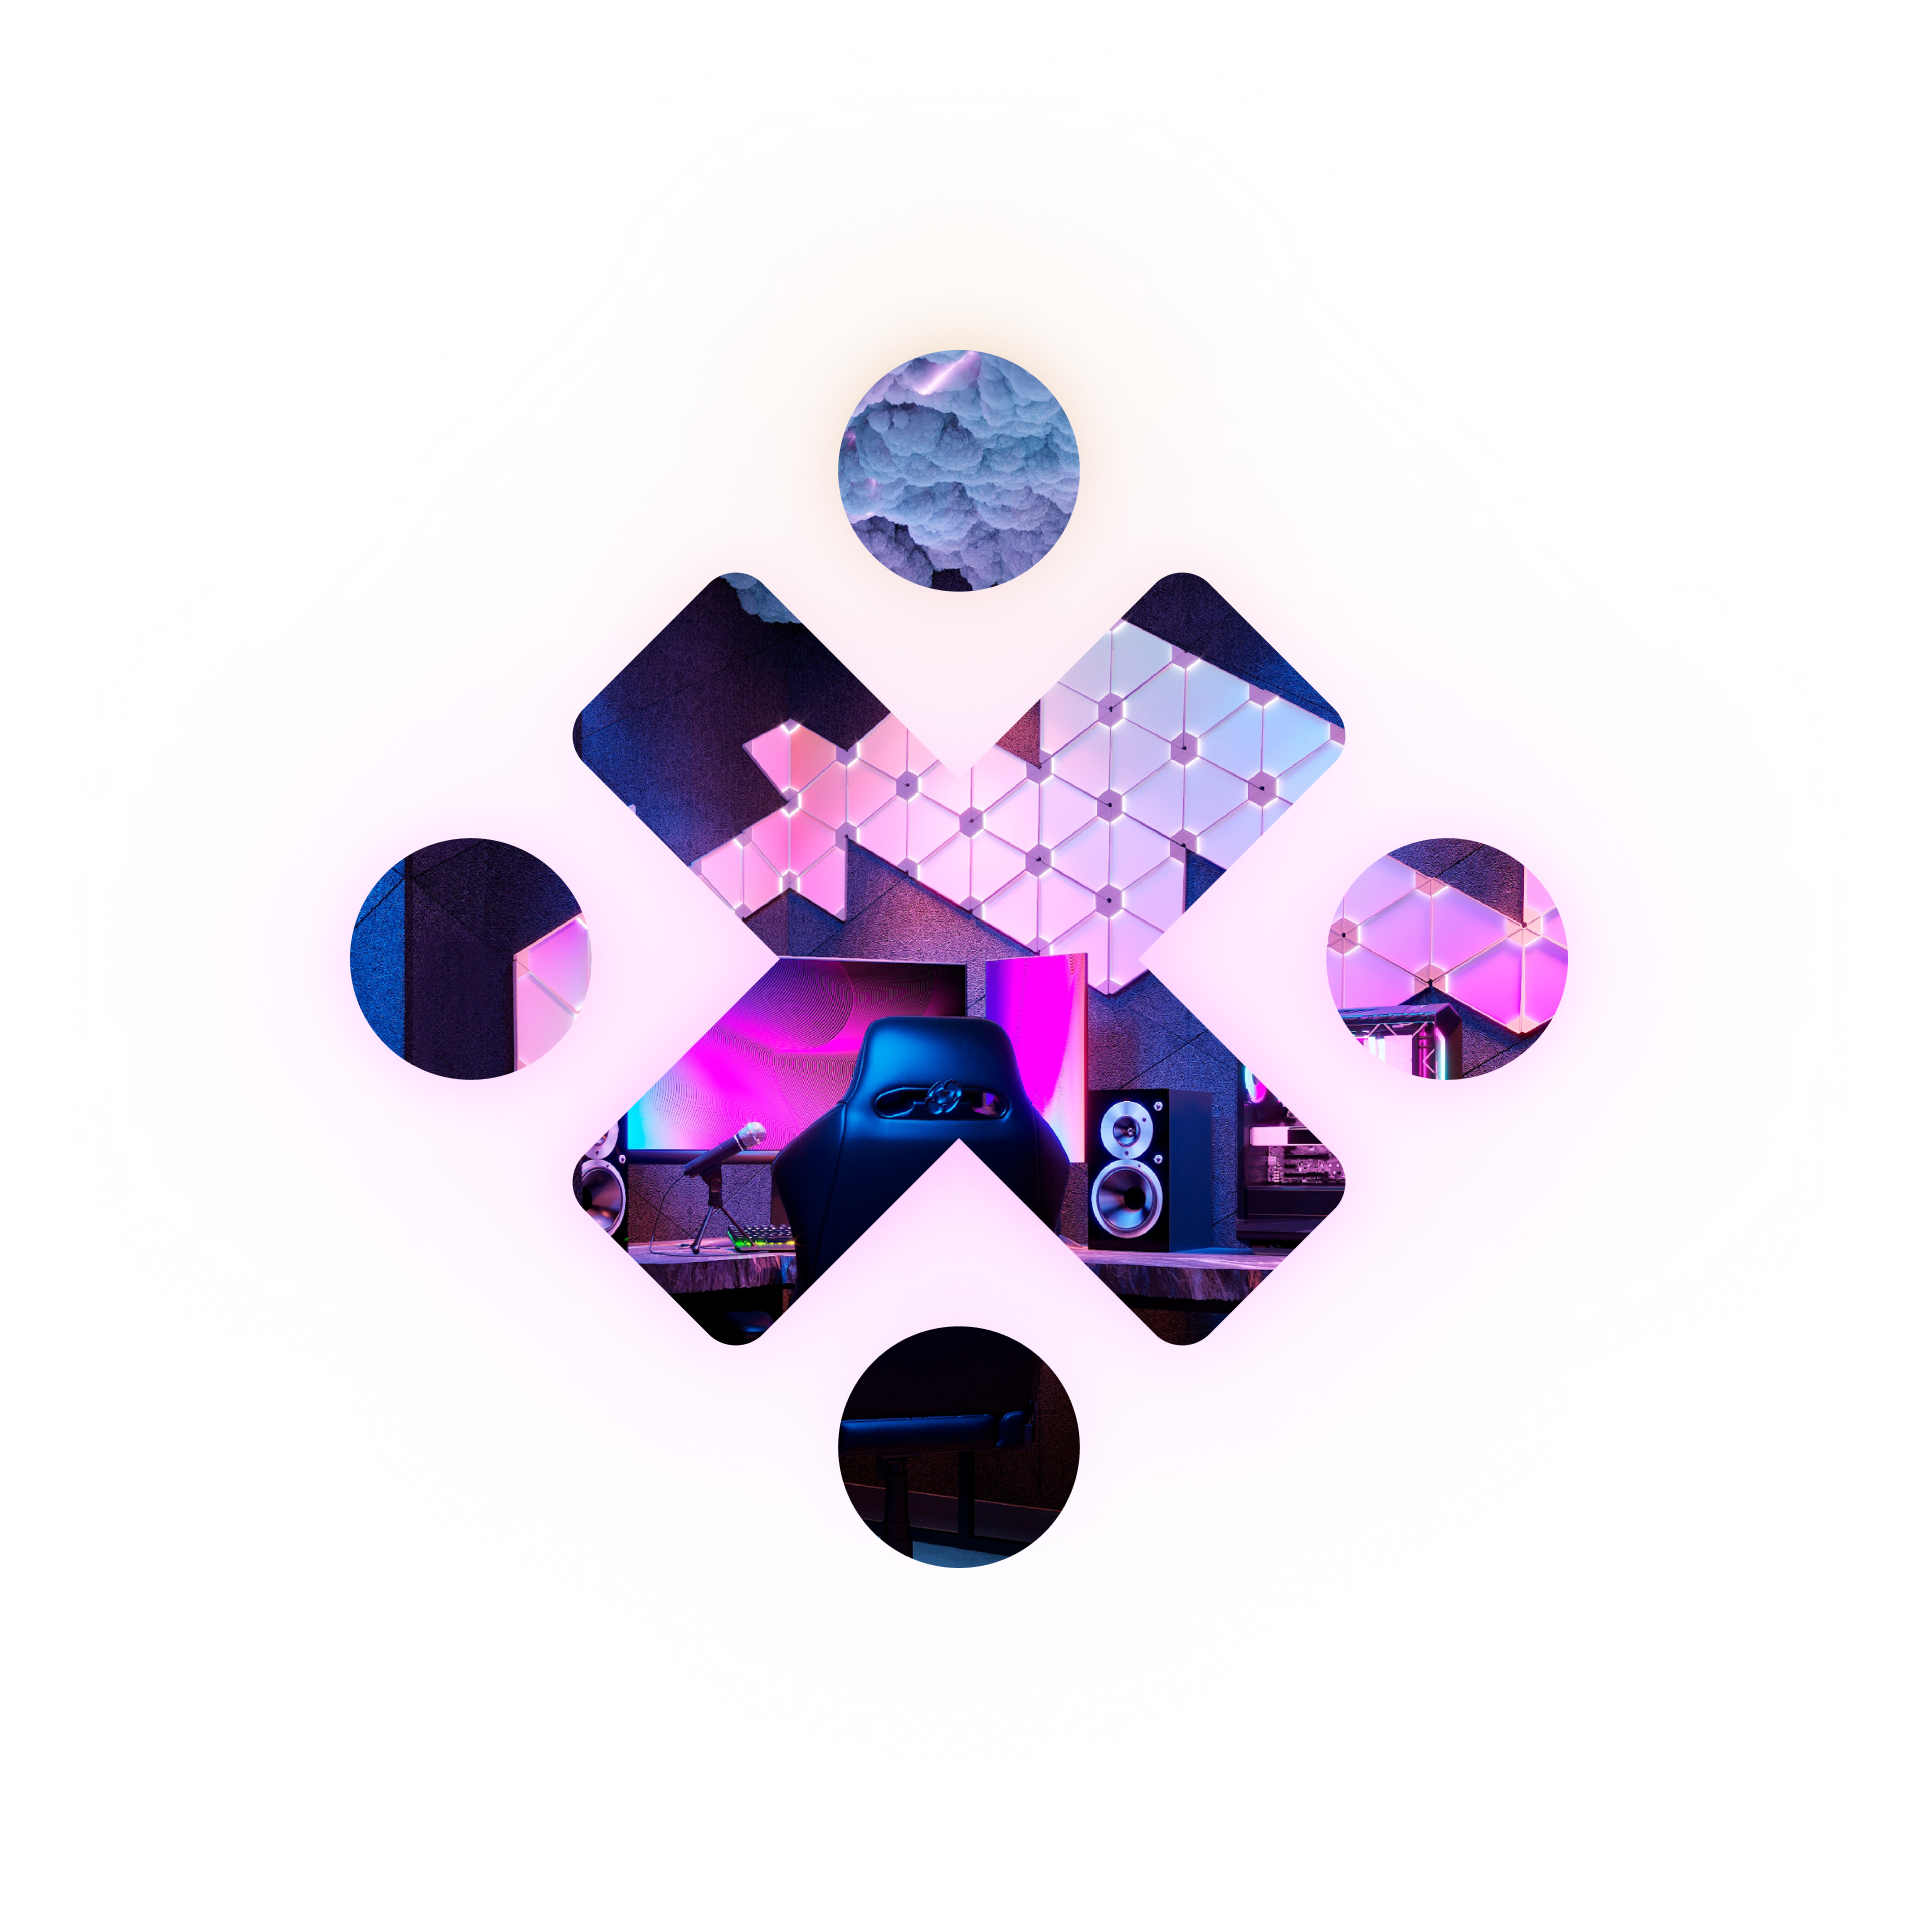
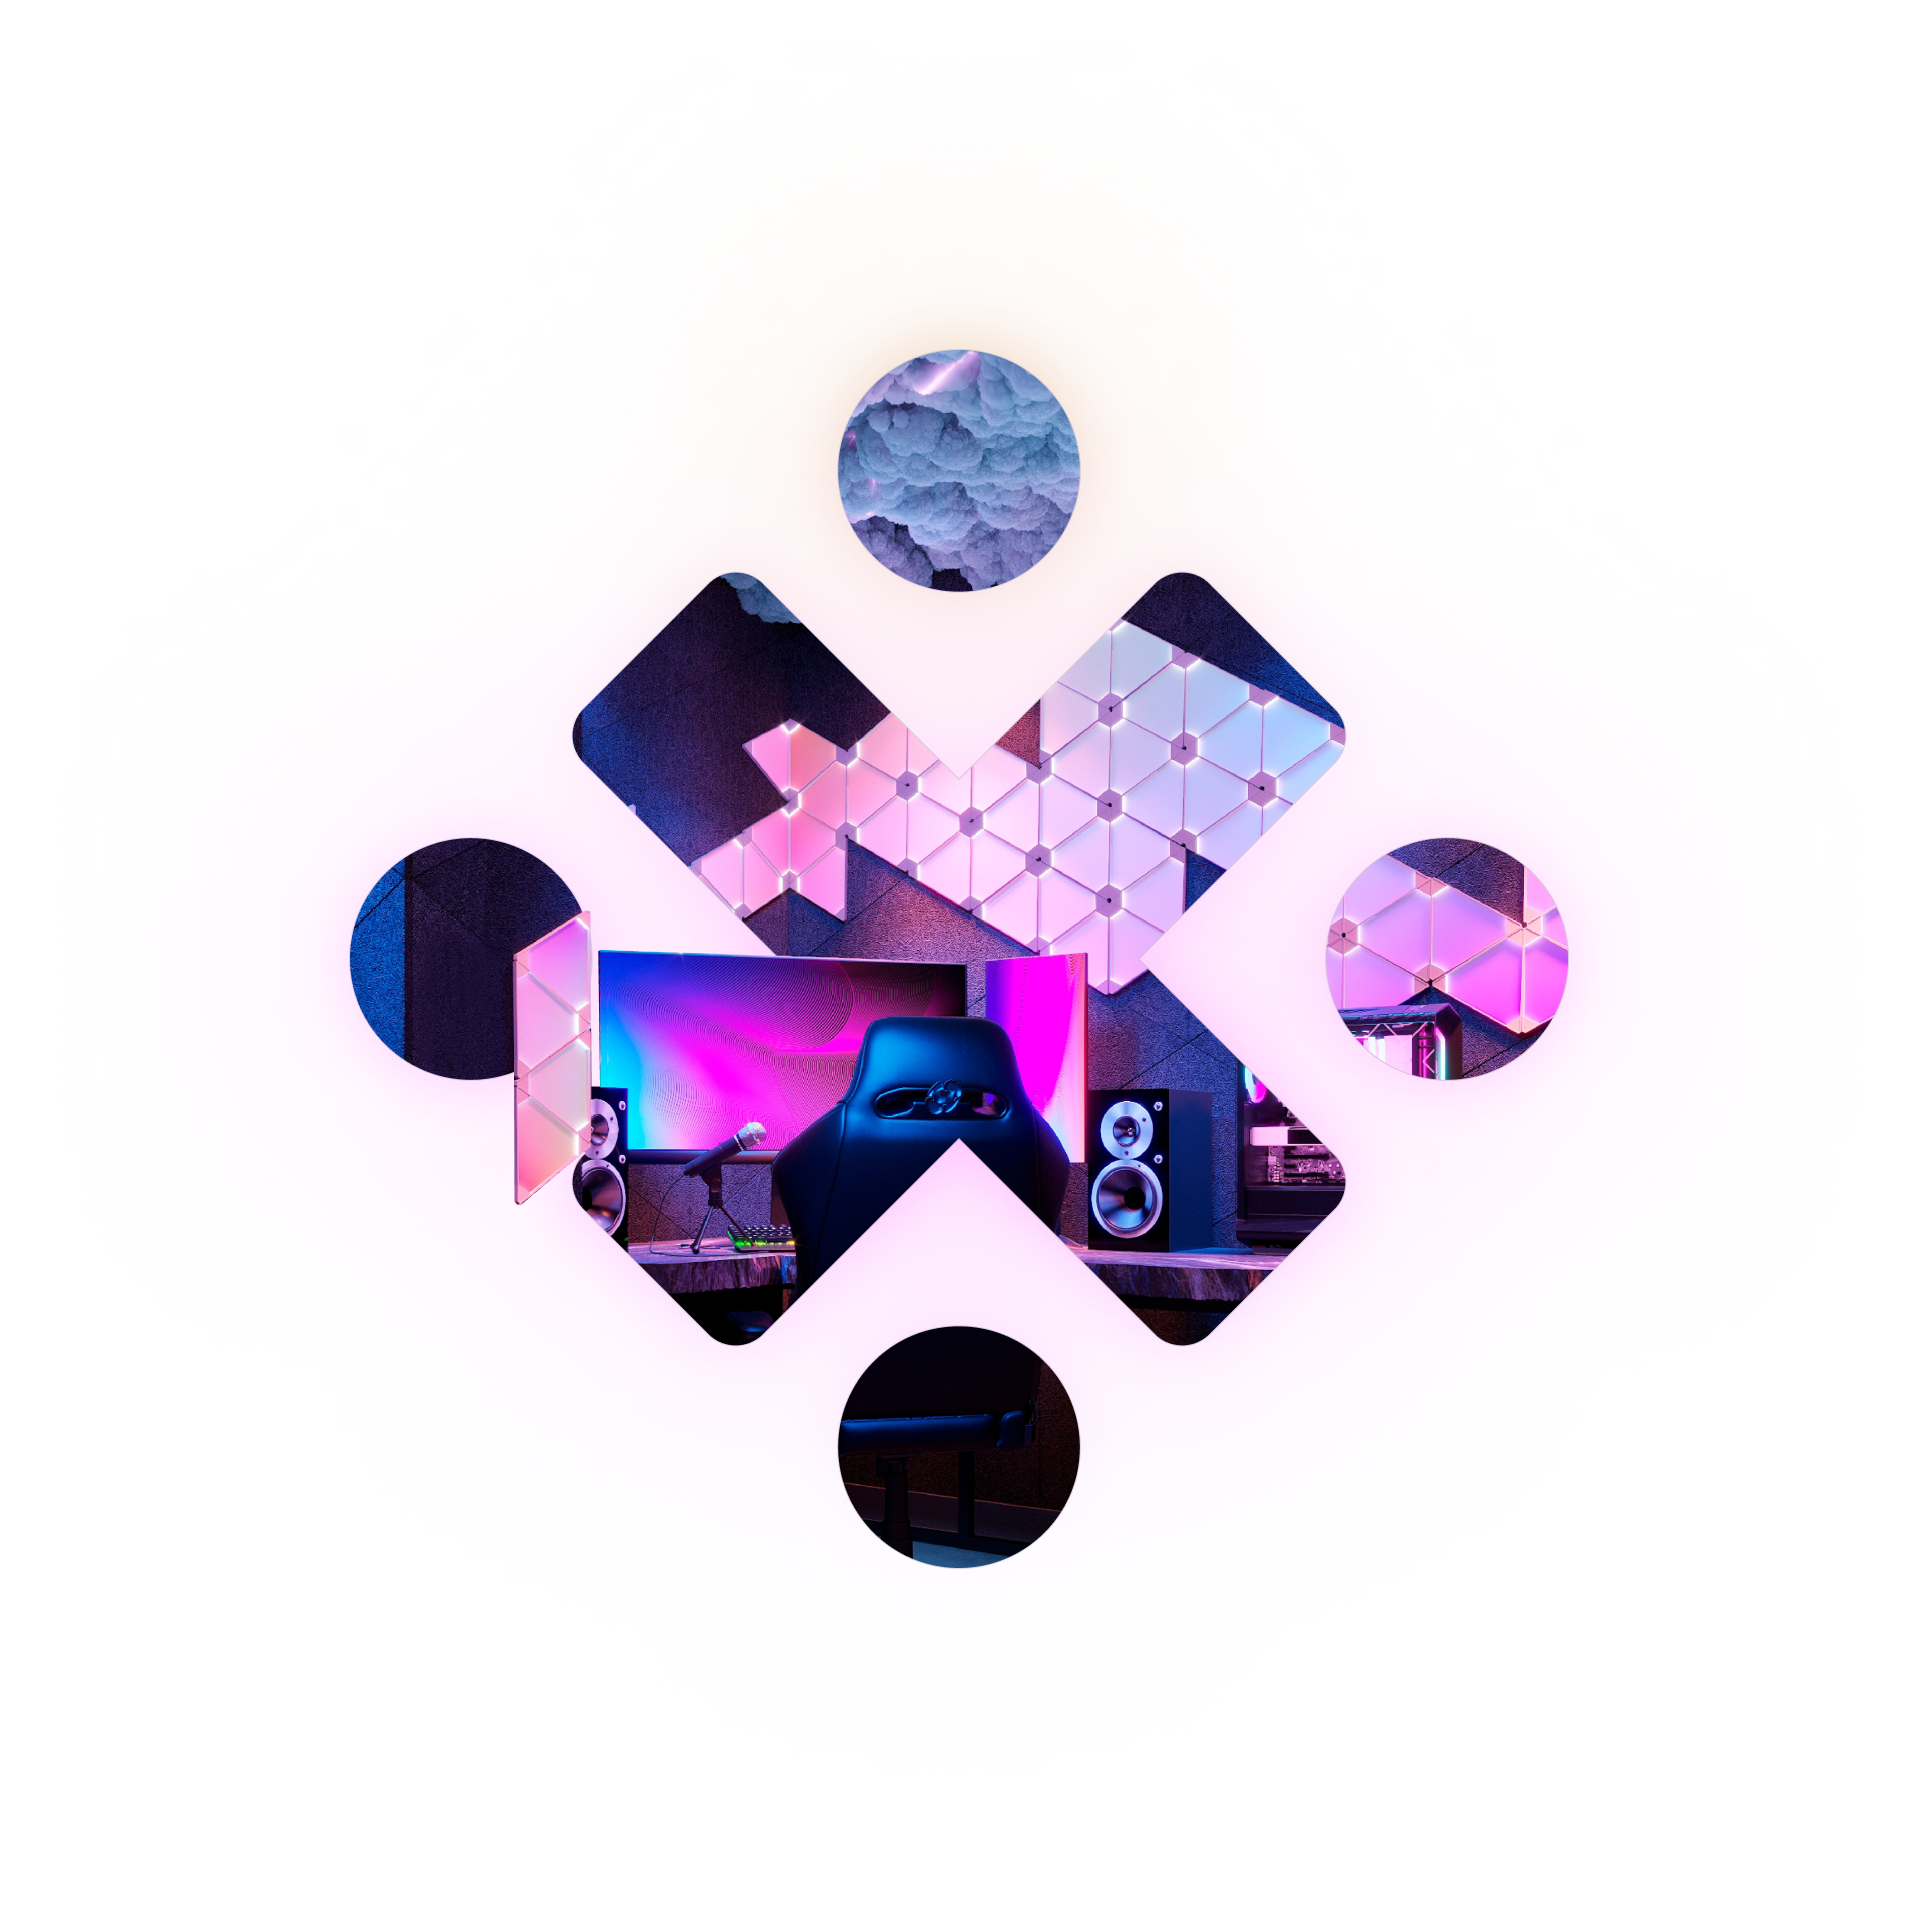
[main][task] implimentation of second game block

Changed region(s): [[0.2461, 0.4922, 0.3999, 0.646]]

diff --git a/components/GamingSection/GamingSection.js b/components/GamingSection/GamingSection.js
@@ -1,0 +1,36 @@
+import styles from "./GamingSection.module.scss";
+import Image from "next/image";
+import gameZone from "../../public/images/game_zone.png";
+import CyberButton from "../../UI/CyberButton/CyberButton"
+
+const GamingSection = () => {
+    return (
+        <div className={styles.gamingWrapper}>
+            <div className={styles.container}>
+                <Image src={gameZone} alt="game" className={styles.gamingWrapper__image} />
+                <main className={styles.gamingInner}>
+                    <div className={styles.gamingInner__title}>Gaming</div>
+                    <div className={styles.gamingContent}>
+                        <div className={styles.leftColumnContent}>
+                            <div className={styles.leftColumnContent__title}>Place for You</div>
+                            <CyberButton color="primary">Book Your Seat</CyberButton>
+                            <CyberButton color="primary">Computers Specifications</CyberButton>
+                        </div>
+                        <div className={styles.rightColumnContent}>
+                            <div className={styles.rightColumnContent__paragraph}>
+                                The Game — is a premium gaming lounge with an unprecedented level of comfort, service, equipment and audience.
+                            </div>
+                            <br />
+                            <div className={styles.rightColumnContent__paragraph}>
+                                A nice place to relax or have a good time. Play games on the world's most powerful gaming computer or stream live from the Streaming Room.
+                            </div>
+                        </div>
+                    </div>
+                </main>
+            </div>
+
+        </div>
+    )
+}
+
+export default GamingSection;

diff --git a/components/GamingSection/GamingSection.module.scss b/components/GamingSection/GamingSection.module.scss
@@ -1,0 +1,60 @@
+@import "../../styles/vars";
+
+.gamingWrapper {
+    font-family: 'Inter';
+    padding-top: 596px;
+    padding-bottom: 200px;
+    position: relative;
+
+    &__image {
+        position: absolute;
+        top: -50.5%;
+        left: 50%;
+        transform: translateX(-50%);
+        max-width: 100%;
+        height: auto;
+    }
+
+    .container {
+        max-width: 1218px;
+        width: 100%;
+        margin: 0 auto;
+    }
+
+    .gamingInner {
+
+        &__title {
+            font-size: 32px;
+            color: $titlePrimary-color;
+            margin-bottom: 12px;
+        }
+
+        .gamingContent {
+            display: flex;
+            align-items: flex-end;
+            column-gap: 292px;
+
+            .leftColumnContent {
+                display: flex;
+                flex-direction: column;
+                row-gap: 45px;
+                width: 40%;
+
+                &__title {
+                    color: $titlePrimary-color;
+                    font-size: 120px;
+                    font-family: 'Montserrat';
+                }
+            }
+
+            .rightColumnContent {
+                flex-basis: 37%;
+                &__paragraph {
+                    font-size: 32px;
+                    color:#fff;
+                    line-height: 1.5;
+                }
+            }
+        }
+    }
+}

diff --git a/UI/CyberButton/CyberButton.js b/UI/CyberButton/CyberButton.js
@@ -1,8 +1,11 @@
 import styles from "./CyberButton.module.scss";
+import classNames from "classnames";
 
-const CyberButton = ({children, ...props}) => {
+const CyberButton = ({children, color, ...props}) => {
     return (
-        <button className={styles.cyberBtn} {...props}>{children}</button>
+        <button className={classNames(styles.cyberBtn, {
+            [styles.primary]: color === 'primary'
+        })} {...props}>{children}</button>
     )
 }
 

diff --git a/pages/index.js b/pages/index.js
@@ -1,9 +1,11 @@
+import GamingSection from "../components/GamingSection/GamingSection";
 import PrimarySection from "../components/PrimarySection/PrimarySection";
 
 const Index = () => {
     return (
-        <div>
+        <div className="wrapper">
             <PrimarySection />
+            <GamingSection />
         </div>
     )
 }

diff --git a/UI/CyberButton/CyberButton.module.scss b/UI/CyberButton/CyberButton.module.scss
@@ -32,3 +32,16 @@
                 mask-composite: exclude;
     }
 }
+
+// colors
+
+.primary {
+    color: $titlePrimary-color;
+    height: 121px;
+    padding: 25px;
+    font-size: 32px;
+    &::before {
+        background: $titlePrimary-color;
+        padding: 1px;
+    }
+}
